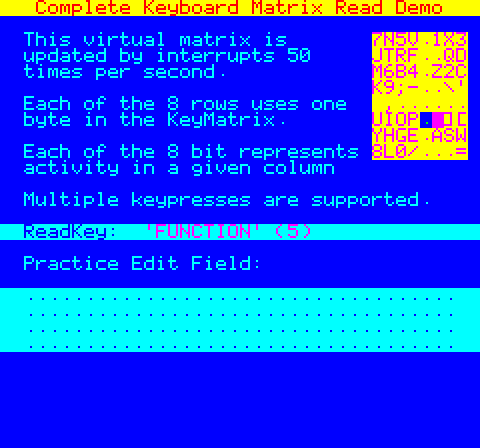
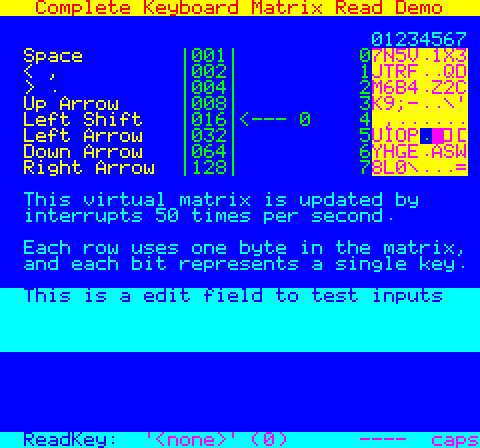
Added support for CAPS LOCK (with CTRL-T), implemented a proper Shifted mode.

diff --git a/main.c b/main.c
@@ -3,7 +3,7 @@
 // All keys are scanned and a  virtual matrix 
 // of 8 bytes is updated at each IRQ.     
 // --------------------------------------
-// (c) 2010-2020 Defence Force
+// (c) 2010-2024 Defence Force
 // Authors: Twilighte, Chema and Dbug
 // --------------------------------------
 // This code is provided as-is:
@@ -20,10 +20,24 @@
 
 #include <stdio.h>
 #include <lib.h>
-
 #include "keyboard.h"
 
 
+
+// Given a position in the 8x8 matrix, returns if the key at this location is pressed or not.
+// This is not 100% accuracte and depends of how many keys are pressed, and which rows they are on.
+// Don't test only on PC and expect that to work on the Oric, beyond two key pressed, you are in dangerous waters.
+unsigned char IsPressed(unsigned char matrix_position)
+{
+    unsigned char bitfield;
+    unsigned char bitkey;
+
+    bitkey=1 << (matrix_position&7);
+    bitfield=KeyMatrix[matrix_position>>3];
+    return bitfield & bitkey;    
+}
+
+// Given an ASCII code, returns a displayable string representing the key
 char* GetKeyName(unsigned char asciiCode)
 {
     if (!asciiCode)
@@ -67,14 +81,24 @@ char* GetKeyName(unsigned char asciiCode)
     return "<unknown>";
 }
 
-
+// Update a line at the bottom of the screen showing the status of the various modifier keys, CAPS Lock, etc...
 void ShowCurrentKeyStatus()
 {    
     unsigned char key=ReadKey();
-    sprintf((char*)(0xbb80+40*14),"%c%cReadKey: %c'%s' (%d)        ",16+6,4,5,GetKeyName(key),key);
+    sprintf((char*)(0xbb80+40*27),"%c%cReadKey: %c'%s' (%d)    ",16+6,4,5,GetKeyName(key),key);
+
+    sprintf((char*)(0xbb80+40*27+36),"%s",KeyCapsLock?"CAPS":"caps");
+
+    // Show the status of the Control, Shift and Function key at the bottom of the screen
+    sprintf((char*)(0xbb80+40*27+30),"%c%c%c%c"
+        ,IsPressed(VKEY_LEFT_CONTROL)?'C':'-'
+        ,IsPressed(VKEY_LEFT_SHIFT)?'S':'-'
+        ,IsPressed(VKEY_RIGHT_SHIFT)?'S':'-'
+        ,IsPressed(VKEY_FUNCTION)?'F':'-');        
+
 }
 
-
+// Shows the 8x8 keyboard matrix, in either UPPER or LOWER case depending of the Shift keys status
 void ShowKeyboardMatrix()
 {
     unsigned char* key;
@@ -83,11 +107,21 @@ void ShowKeyboardMatrix()
     char i,row;
     char mask;
      
-    key = &KeyAscii[0][0];
-    start=(char*)(0xbb80+40*3-10);
+    if (IsPressed(VKEY_LEFT_SHIFT) || IsPressed(VKEY_RIGHT_SHIFT))
+    {
+        // Shifted
+        key = &KeyAsciiLower[0][0];
+    }
+    else
+    {
+        // Unshifted
+        key = &KeyAsciiUpper[0][0];
+    }
+    start=(char*)(0xbb80+40*4-11);
     for (row=0;row<8;row++)
     {
         *start++ = 2;
+        *start++ = '0'+row;
         mask=KeyMatrix[row];
         for (i=0;i<8;i++)
         {
@@ -104,13 +138,13 @@ void ShowKeyboardMatrix()
             mask >>=1;
         }
         
-        start+=40-9;
+        start+=40-10;
     }
 }
 
 
 char EditField[36*4];
-unsigned char EditFieldSize=0;
+char EditFieldSize=0;
 
 void UpdateInputField()
 {
@@ -128,15 +162,23 @@ void UpdateInputField()
             if (EditFieldSize>0)
             {
                 EditFieldSize--;
-                EditField[EditFieldSize]='.';
+                EditField[EditFieldSize]=' ';
             }
         }
         else
         if ( (key>=32) && (key<128) )            
         {
-            EditField[EditFieldSize]=key;
-            EditFieldSize++;
+            if ( ( (key=='T') || (key=='t') ) && IsPressed(VKEY_LEFT_CONTROL) )
+            {
+                KeyCapsLock=!KeyCapsLock;
+            }
+            else
+            {                
+                EditField[EditFieldSize]=key;
+                EditFieldSize++;
+            }
         }
+
     }
 
     // Display the buffer
@@ -152,39 +194,56 @@ void UpdateInputField()
     }
 }
 
+
 void main()
 {
     setflags(SCREEN); // So we don't get the blinking cursor frozen after we disabled the IRQ
+    InitIRQ();
     paper(4);
     ink(6);
     cls();
     sprintf((char*)(0xbb80),"%c%c Complete Keyboard Matrix Read Demo%c",16+3,1,3);
 
     printf("\n");
-    printf("This virtual matrix is\n");
-    printf("updated by interrupts 50\n");
-    printf("times per second.\n\n");
+    printf("                             01234567\n");
+    printf("Space       \033B\174001\174          0\n");
+    printf("< ,         \033B\174002\174          1\n");
+    printf("> .         \033B\174004\174          2\n");
+    printf("Up Arrow    \033B\174008\174          3\n");
+    printf("Left Shift  \033B\174016\174<---      4\n");
+    printf("Left Arrow  \033B\174032\174          5\n");
+    printf("Down Arrow  \033B\174064\174          6\n");
+    printf("Right Arrow \033B\174128\174          7\n");
 
-    printf("Each of the 8 rows uses one\n");
-    printf("byte in the KeyMatrix. \n\n");
 
-    printf("Each of the 8 bit represents\n");
-    printf("activity in a given column\n\n");
+    printf("\n");
+	printf("This virtual matrix is updated by\n");
+	printf("interrupts 50 times per second.\n\n");
 
-    printf("Multiple keypresses are supported.\n");
+    printf("Each row uses one byte in the matrix,\n");
+    printf("and each bit represents a single key.\n\n");
 
-    printf("\n\n\nPractice Edit Field:\n\n");
+    printf("Practice Edit Field:\n\n");
 
-    InitIRQ();
-
-    memset(EditField,'.',sizeof(EditField));
     while (1)
     {
+        poke(0xbb80+40*3+1,(KeyRowArrows & KEY_MASK_SPACE)?1:3);
+        poke(0xbb80+40*4+1,(KeyRowArrows & KEY_MASK_LESS_THAN)?1:3);
+        poke(0xbb80+40*5+1,(KeyRowArrows & KEY_MASK_GREATER_THAN)?1:3);
+        poke(0xbb80+40*6+1,(KeyRowArrows & KEY_MASK_UP_ARROW)?1:3);
+        poke(0xbb80+40*7+1,(KeyRowArrows & KEY_MASK_LEFT_SHIFT)?1:3);
+        poke(0xbb80+40*8+1,(KeyRowArrows & KEY_MASK_LEFT_ARROW)?1:3);
+        poke(0xbb80+40*9+1,(KeyRowArrows & KEY_MASK_DOWN_ARROW)?1:3);
+        poke(0xbb80+40*10+1,(KeyRowArrows & KEY_MASK_RIGHT_ARROW)?1:3);
+
+        sprintf((char *)(0xbb80+40*7+25),"%u  ",KeyRowArrows);        
+
         ShowKeyboardMatrix();
 
         ShowCurrentKeyStatus();
 
         UpdateInputField();
+
     }   
 }
 

diff --git a/keyboard.h b/keyboard.h
@@ -16,11 +16,14 @@ extern void InitIRQ();
 // http://wiki.defence-force.org/doku.php?id=oric:hardware:oric_keyboard 
 
 extern unsigned char KeyMatrix[8];
-extern unsigned char KeyAscii[8][8];
+extern unsigned char KeyRowArrows;         // One bit per key pressed (actual part of KeyMatrix)
+
+extern unsigned char KeyAsciiUpper[8][8];
+extern unsigned char KeyAsciiLower[8][8];
+extern unsigned char KeyCapsLock;           // Used to force the SHIFTed status of letters
 
 extern unsigned char ReadKey();             // Reads a key (single press, but repeating) and returns his ASCII value
 extern unsigned char ReadKeyNoBounce();     // Read a single key, same as before but no repeating.
-
 #endif
 
 
@@ -47,3 +50,18 @@ extern unsigned char ReadKeyNoBounce();     // Read a single key, same as before
 #define KEY_SPACE       32
 #define KEY_DELETE      127
 
+
+// Using these defines, you can easily check the content of KeyRowArrows
+#define KEY_MASK_SPACE        1
+#define KEY_MASK_LESS_THAN    2
+#define KEY_MASK_GREATER_THAN 4
+#define KEY_MASK_UP_ARROW     8
+#define KEY_MASK_LEFT_SHIFT   16
+#define KEY_MASK_LEFT_ARROW   32
+#define KEY_MASK_DOWN_ARROW   64
+#define KEY_MASK_RIGHT_ARROW  128
+
+#define VKEY_LEFT_CONTROL     20        // Control key (left one on PC)
+#define VKEY_LEFT_SHIFT       36        // Left Shift key
+#define VKEY_RIGHT_SHIFT      60        // Right Shift key
+#define VKEY_FUNCTION          4        // Function key (right Control key on PC)

diff --git a/README.md b/README.md
@@ -18,7 +18,11 @@ The **ReadKey** text will also show the name and ASCII code value of the last pr
 - **'LEFT SHIFT' (3)**
 - or **'\<none\>' (0)** if no keys are pressed
 
-And finally, the Practice Edit Field will show what you have been typing
+The **----** at the bottom right shows the status of the modifiers key (C for Control, S for Shift, F for Function).
+
+The **caps** will change into **CAPS** when using CTRL-T and represents the current 'caps lock' status.
+
+And finally, the Practice Edit Field will show what you have been typing, it supports caps lock, shifting, and deleting as well.
 
 # Reasons
 If you are wondering why anyone would want to reinvent the wheel, you need to know a few things about the Oric:
@@ -32,7 +36,6 @@ So obviously if you disable the ROM you have to do everything yourself, includin
 This code is not trying to be a complete recreation of the system ROM; which means...
 - It does not support things like auto-repeat when a key is pressed
 - It does not do nice KLICK and KLOCK sounds when you press keys
-- It does not separate the normal keys (A, B, 1, ?, ...) and the dead keys (SHIFT, CONTROL, ...)
 
 # Authors
 This code is the result of a cooperation between multiple people.
